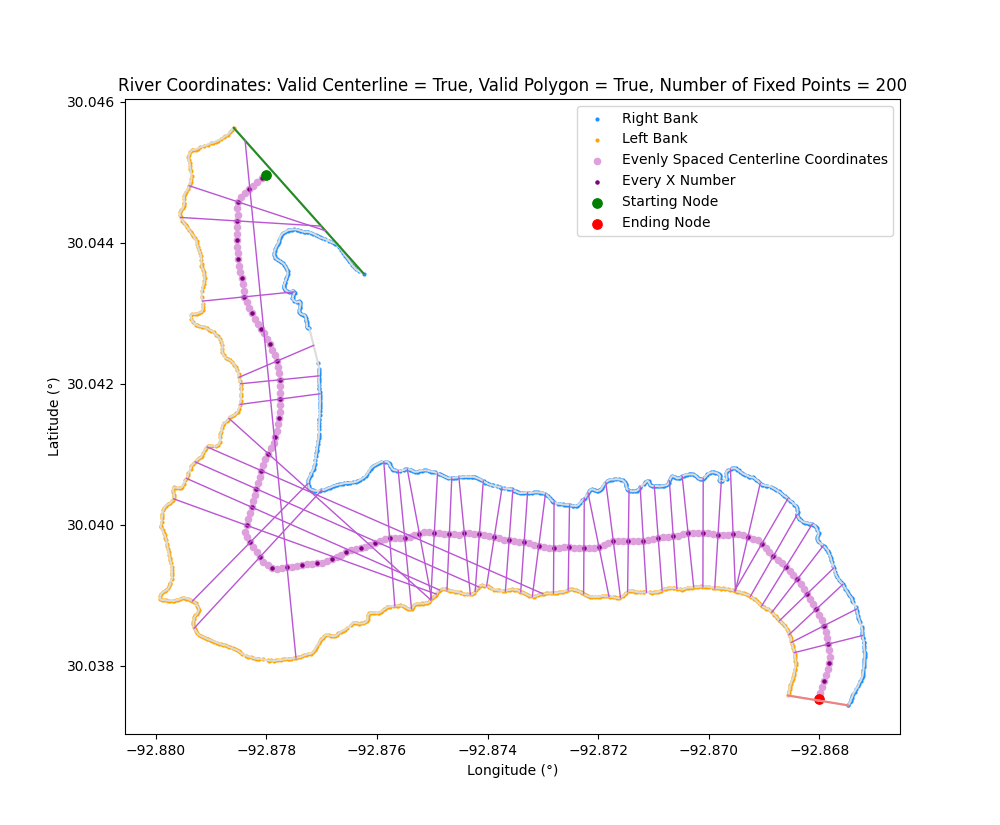
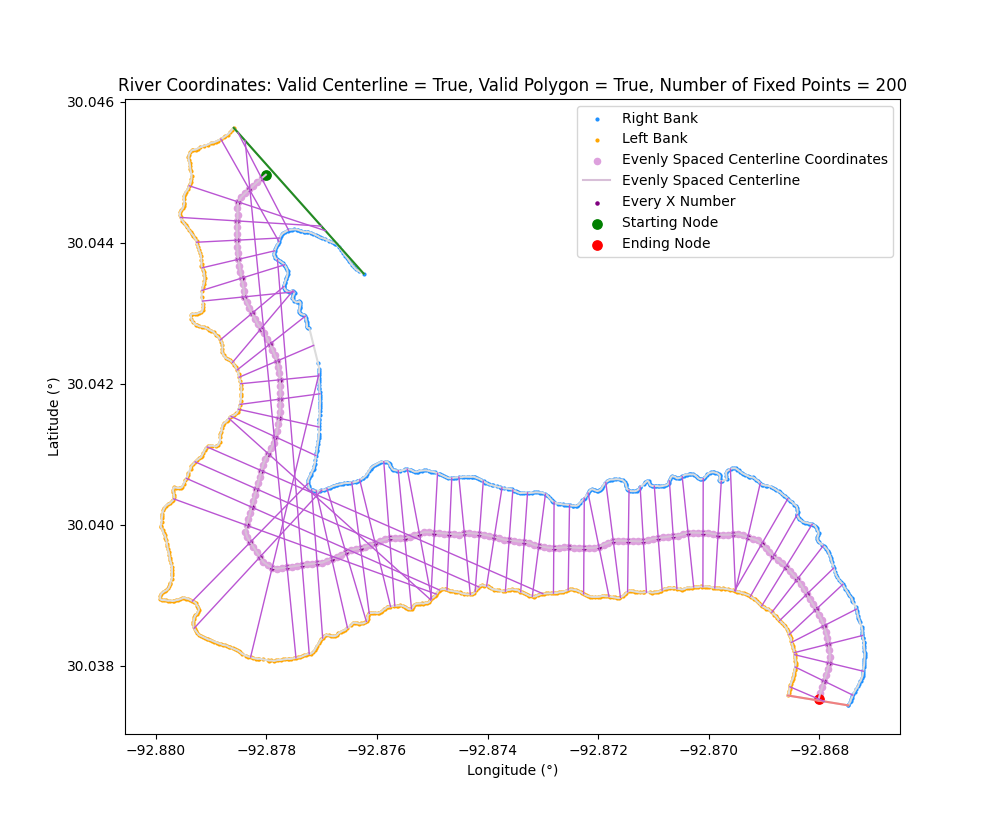
when line intersects, only save the two closest width lines

diff --git a/centerline_width/centerline.py b/centerline_width/centerline.py
@@ -125,16 +125,13 @@ def riverWidthFromCenterlineCoordinates(csv_data=None, centerline_coordinates=No
 		bank_polygon, _, _ = centerline_width.generatePolygon(left_bank_coordinates, right_bank_coordinates)
 
 	# Average n amount of slopes around a point
-	print("centerline_coordinates = {0}".format(len(centerline_coordinates)))
 	avg_n_points = 3
-	print("avg_n_points = {0}".format(avg_n_points))
 
 	# Average slopes for every n points to chart
 	centerline_slope = {}
 	groups_of_n_points = [centerline_coordinates[i:i+avg_n_points] for i in range(0, len(centerline_coordinates), avg_n_points)]
 	for group_points in groups_of_n_points:
-		print(group_points)
-		print(len(group_points))
+		#print(group_points)
 		slope_sum = 0
 		total_slopes = 0
 		for i in range(len(group_points)):
@@ -144,10 +141,11 @@ def riverWidthFromCenterlineCoordinates(csv_data=None, centerline_coordinates=No
 				slope_sum += (dy / dx)
 				total_slopes += 1
 		if slope_sum != 0:
-			print("total_slopes = {0}".format(total_slopes))
 			slope_avg = slope_sum / total_slopes
 			normal_of_slope = -1 / slope_avg
 			middle_of_list = len(group_points) // 2
+			#print("slope_avg = {0}".format(slope_avg))
+			#print("normal_of_slope = {0}\n".format(normal_of_slope))
 			#print(group_points[middle_of_list])
 			#print(normal_of_slope)
 			centerline_slope[group_points[middle_of_list]] = normal_of_slope
@@ -161,9 +159,22 @@ def riverWidthFromCenterlineCoordinates(csv_data=None, centerline_coordinates=No
 		# Save the points where they intersect the polygon
 		sloped_line = LineString([(min_x, left_y), (max_x, right_y)])
 		line_intersection_points = bank_polygon.exterior.intersection(sloped_line)
-		if len(line_intersection_points.geoms) == 2: # TODO: only collect the closest points
+		if len(line_intersection_points.geoms) == 2:#and slope < -0.37: # TODO: only collect the closest points
 			left_width_coordinates[centerline_point] = (line_intersection_points.geoms[0].x, line_intersection_points.geoms[0].y)
 			right_width_coordinates[centerline_point] = (line_intersection_points.geoms[1].x, line_intersection_points.geoms[1].y)
+		else:
+			# line intersects to polygon at multiple points, find the closest two points to chart
+			distances_between_centerline_and_point = []
+			for i in range(len(line_intersection_points.geoms)):
+				point_intersection = Point(line_intersection_points.geoms[i].x, line_intersection_points.geoms[i].y)
+				distance_between = Point(centerline_point).distance(point_intersection)
+				distances_between_centerline_and_point.append(distance_between)
+			# collect the two closest points
+			index_of_sorted_list = sorted(range(len(distances_between_centerline_and_point)),key=distances_between_centerline_and_point.__getitem__)
+			smallest_point = line_intersection_points.geoms[index_of_sorted_list[0]]
+			second_smallest_point = line_intersection_points.geoms[index_of_sorted_list[1]]
+			left_width_coordinates[centerline_point] = (smallest_point.x, smallest_point.y)
+			right_width_coordinates[centerline_point] = (second_smallest_point.x, second_smallest_point.y)
 
 	return right_width_coordinates, left_width_coordinates, centerline_slope
 

diff --git a/centerline_width/plotDiagrams.py b/centerline_width/plotDiagrams.py
@@ -14,7 +14,7 @@ def plotCenterline(csv_data=None,
 					displayVoronoi=False,
 					displayCenterline=True,
 					plot_width_lines=False,
-					n_interprolate_centerpoints=10,
+					n_interprolate_centerpoints=100,
 					optional_cutoff=None):
 
 	centerline_width.errorHandlingPlotCenterline(csv_data=csv_data,
@@ -112,7 +112,7 @@ def plotCenterline(csv_data=None,
 				x.append(k)
 				y.append(v)
 			plt.scatter(x, y, c="plum", label="Evenly Spaced Centerline Coordinates", s=20)
-			#plt.plot(*zip(*evenly_spaced_centerline_coordinates), c="thistle", label="Evenly Spaced Centerline")
+			plt.plot(*zip(*evenly_spaced_centerline_coordinates), c="thistle", label="Evenly Spaced Centerline")
 
 			x = []
 			y = []

diff --git a/river_centerline_width_example.py b/river_centerline_width_example.py
@@ -8,7 +8,7 @@ if __name__ == "__main__":
 	# Valid Examples
 	cutoff = None
 	cutoff = 10
-	#cutoff = 15 # valid centerline, valid path, valid polygon, valid starting node, valid ending node
+	cutoff = 15 # valid centerline, valid path, valid polygon, valid starting node, valid ending node
 	#cutoff = 100 # valid centerline, valid path, valid polygon, valid starting node, valid ending node
 	cutoff = 550 # valid centerline, valid path, valid polygon, valid starting node, valid ending node
 	# Invalid Examples
